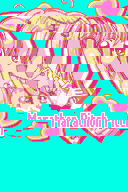
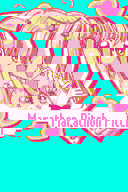
Phase 8: live-data error bubble in English (gfx_live, chain 1747BC1 via kcomplog); solo cards: plate over the old lettering (no loose outline bits), Nonstop centred; Nothing here! centred

diff --git a/tools/gfx_solo.py b/tools/gfx_solo.py
@@ -17,7 +17,7 @@ from gfx_winlose import ring  # noqa: E402
 
 CARDS = {  # scene -> English, map column of the card, cell rows of the lettering, Style
     "solo_modes": ("Marathon Pitch", 0, (13, 15), (5, 8, 15, None, (5, 3), 5, 1, 0)),  # rows 14-15 only
-    "solo_tsuzukete": ("Nonstop Pitch", 32, (13, 16), (6, 8, 15, 4, (6,), 7, 1, -8)),
+    "solo_tsuzukete": ("Nonstop Pitch", 32, (13, 16), (6, 8, 15, 4, (6,), 4, 1, 0)),
     "solo_anime": ("Anime Pitch", 0, (13, 17), (5, 9, 15, 5, (5,), 6, 1, 0, 14)),  # erase to the white cloud (14)
 }
 # Style = (banner palette, fill, white ring, outer ring or None, palettes whose cells may be erased, dy and dx from
@@ -27,20 +27,39 @@ CARDS = {  # scene -> English, map column of the card, cell rows of the letterin
 
 def edit(L, word, x0, rows, style):
     """Card at map columns x0..x0+31, lettering in cell rows `rows` (lo, hi)."""
-    PAL, fill, white, outer, erasable, dy, whites, dx, *backing = style
-    backing = backing[0] if backing else 0
+    PAL, fill, white, outer, _, dy, whites, dx, *_ = style
     rect = (x0, rows[0] - 1, 32, rows[1] - rows[0] + 3)
     cx0, cy0, w, h = rect
     img = L.compose(rect)
     palof = {(x, y): L.entry(cx0 + x // 8, cy0 + y // 8)[3] for y in range(8 * h) for x in range(8 * w)}
     band = range(8, 8 * h - 8)
     strokes = {(x, y) for y in band for x in range(8 * w) if palof[(x, y)] == PAL and img[y][x] == fill}
+    uses = Counter(L.entry(x, y)[0] for x in range(L.w) for y in range(L.h))
+    want = L.colours(PAL)
+
+    def nearest(x, y, rgb):
+        cols = L.colours(palof[(x, y)])
+        return min((sum(abs(a - b) for a, b in zip(cols[i], rgb)), i) for i in range(1, 16))
+
+    # plate: the old lettering grown 3 px (it and its outline), closed by 4 px into one smooth blob, painted white with
+    # a 1 px edge in the old outline colour over every cell it covers (art cells too: outline bits there were the old
+    # lettering's), so nothing of the old lettering is left loose; shared tiles (blank tile 0 etc.) stay as they are
     grown = strokes
     for _ in range(3):
         grown = grown | ring(grown)
-    for x, y in grown:
-        if 0 <= y < 8 * h and palof[(x, y)] in erasable:  # banner palette or plain background, not the art
-            img[y][x] = backing if palof[(x, y)] == PAL else 0
+    edge = Counter(img[y][x] for x, y in grown - strokes if 0 <= x < 8 * w and 0 <= y < 8 * h
+                   and palof[(x, y)] == PAL and img[y][x] not in (0, fill, white)).most_common(1)[0][0]
+    blob = grown
+    for _ in range(4):
+        blob = blob | ring(blob)
+    for _ in range(4):
+        blob = blob - ring({(x + i, y + j) for x, y in blob for i in (-1, 0, 1) for j in (-1, 0, 1)} - blob)
+    border = blob & ring({(x + i, y + j) for x, y in blob for i in (-1, 0, 1) for j in (-1, 0, 1)} - blob)
+    for x, y in blob:
+        if 0 <= x < 8 * w and 0 <= y < 8 * h and uses[L.entry(cx0 + x // 8, cy0 + y // 8)[0]] == 1:
+            err, k = nearest(x, y, want[edge if (x, y) in border else white])
+            if err <= 80:
+                img[y][x] = k
     ink, iw, ih = mask(word, 1, 2)
     xs, ys = [p[0] for p in strokes], [p[1] for p in strokes]
     cx, cy = (min(xs) + max(xs)) // 2, (min(ys) + max(ys)) // 2  # centre of the old lettering
@@ -49,17 +68,21 @@ def edit(L, word, x0, rows, style):
     for _ in range(whites):
         wr |= ring(ink | wr)
     r3 = ring(ink | wr) if outer is not None else set()
-    want = L.colours(PAL)
-    uses = Counter(L.entry(x, y)[0] for x in range(L.w) for y in range(L.h))
+    skipped = 0
     for layer, v in ((r3, outer), (wr, white), (ink, fill)):
         for x, y in layer:
             if uses[L.entry(cx0 + x // 8, cy0 + y // 8)[0]] > 1:
+                if layer is not ink:  # a ring pixel over a shared blank tile is left out
+                    continue
                 raise SystemExit(f"{word!r}: px {x},{y} lands on a shared tile (cell {cx0 + x // 8},{cy0 + y // 8})")
-            cols = L.colours(palof[(x, y)])
-            err, k = min((sum(abs(a - b) for a, b in zip(cols[i], want[v])), i) for i in range(1, 16))
+            err, k = nearest(x, y, want[v])
+            if err > 80 and layer is not ink:  # an art palette with no such colour: that ring pixel is left out
+                skipped += 1
+                continue
             if err > 80:  # 75 = pal 3's light pink standing in for the pink fill
                 raise SystemExit(f"{word!r}: px {x},{y} in a pal-{palof[(x, y)]} cell, nearest colour off by {err}")
             img[y][x] = k
+    print(f"{word!r}: {skipped} ring pixels left out (no near colour)")
     return rect, img
 
 

diff --git a/tools/gfx_live.py b/tools/gfx_live.py
@@ -1,0 +1,39 @@
+"""gfx_live.py: live-data error screen (warp `live_broken`): bubble ライブのデータがこわれているよ! on BG3.
+gfx/live.tsv 1747BC1 (800x10 chain, the whole BG3 picture). The bubble's text cells use BG pals 4/5 (dark blue 1,
+white 15); the cells between letters use pal 3 (no dark colour), and the map is not raw in ROM, so the English stays in
+the two bands that are pal 4/5 all across: map rows 5-6 and 9-10, cells 2-15.
+    python -X utf8 tools/gfx_live.py
+"""
+import sys
+from pathlib import Path
+
+sys.path.insert(0, str(Path(__file__).resolve().parent))
+import gfx  # noqa: E402
+from gfx_bg import Layer  # noqa: E402
+
+RECT = (2, 4, 14, 9)  # bubble inside, map cells 2-15 x 4-12
+LINES = [("Your live data", 8), ("is broken!", 40)]  # (text, top y in RECT: map rows 5 and 9)
+
+
+def main():
+    rom = next((gfx.ROOT / "rom").glob("*.gba")).read_bytes()
+    _, off, size, layout, png = next(gfx.rows("live"))
+    data = gfx.decode(rom, off, size)[0]
+    img = gfx.to_image(data, layout)
+    L = Layer("live_broken", 3)
+    x0, y0, w, h = RECT
+    px = L.compose(RECT)
+    for j in range(h):
+        for i in range(w):
+            if L.entry(x0 + i, y0 + j)[3] in (4, 5):  # text cells: blank to white
+                for y in range(8):
+                    px[8 * j + y][8 * i:8 * i + 8] = [15] * 8
+    for text, top in LINES:
+        gfx.typeset(px, [text], (0, top, 8 * w, top + 16), 1, [], bold=True)
+    print(L.write(img, data, RECT, px), "tiles changed")
+    gfx.save_png(img, gfx.load_pal("live"), gfx.ROOT / png)
+    print(png)
+
+
+if __name__ == "__main__":
+    main()

diff --git a/tools/gfx_songs.py b/tools/gfx_songs.py
@@ -36,6 +36,7 @@ TITLES = {  # block -> (list offsets in the bank, flag 0 and 1; English)
     0x1743F0B: ((), "Nothing here!"),           # なにもないヨ!
 }
 Y = -7  # line top relative to the object, as the English titles' lists (Legend of Mermaid..)
+NUDGE = {"Nothing here!": -7}  # px left inside the 96 px strip: centred on screen (live_list, tour3 margins 68/54)
 
 
 def strip(text, width):
@@ -70,8 +71,9 @@ def draw(text, lists):
     block = [[0] * 128 for _ in range(32)]
     if not lists:
         s = strip(text, 96)
+        dx = NUDGE.get(text, 0)
         for y in range(16):
-            block[y][:96] = s[y]
+            block[y][:96] = (s[y][-dx:] + [0] * -dx) if dx < 0 else s[y]
         return block, None
     wide = strip(text, 256)
     xs = [x for row in wide for x, v in enumerate(row) if v]

diff --git a/docs/re/graphics.md b/docs/re/graphics.md
@@ -92,10 +92,14 @@ prompts, ending and credits, story scenes if any.
   each pixel's nearest index in its own cell's palette (`gfx_solo.edit`).
 - Group `solo` (done): mode-carousel cards (scene 28, BG2 cb 0x4000, 64x32 map; the current card can be in either
   half) 1BF5582 とことん / 1BF7155 つづけて / 1BF8856 アニメで -> Marathon / Nonstop / Anime Pitch (D15),
-  `tools/gfx_solo.py`: erase the fill strokes +3 px in banner-palette cells, redraw 1x wide 2x tall. The lettering
-  is boxed in by art-palette cells and shared tiles, so each card has its own dx/dy and ring count. Checked in
-  `work/qa/p8solo` (cold-boot warps). Polish: small transparent holes at the cloud / star edges where the old
-  rings were.
+  `tools/gfx_solo.py`: the old lettering +3 px, closed by 4 px, becomes a white plate edged in its old outline
+  colour, painted in every non-shared cell it covers in that cell's nearest colour (art cells held outline bits:
+  erasing banner cells only left them loose, tour3 verdicts); English 1x wide 2x tall, centred on the old lettering.
+  Ring pixels on shared tiles or with no near colour are left out (Nonstop: 26). Checked in `work/qa/p8s`.
+- Group `live` (done session 21, `tools/gfx_live.py`): live-data error (warp `live_broken`) BG3 picture chain 1747BC1
+  800x10 (not in the sweep: `tools/lua/kcomplog.lua` at the warp). Bubble text cells use BG pals 4/5, gaps between
+  letters pal 3 (no dark colour) and the map is not raw in ROM, so "Your live data / is broken!" sits in the two
+  all-pal-4/5 bands (map rows 5-6, 9-10).
 - Group `options` (done): 1723EBE is a panelled atlas (`obj16x4*8/2`, 256x128; right half = background thumbnails).
   Labels are rows of OBJs 24 px tall on 2D VRAM rows (row = tile // 32), NOT on the 32 px panels: なまえ (80,0)
   はいけい (0,32) やじるし (64,32) ヘッドホン (0,56) あり (80,56) マーメイド (0,80) なし (80,80) -> Name / Background /
